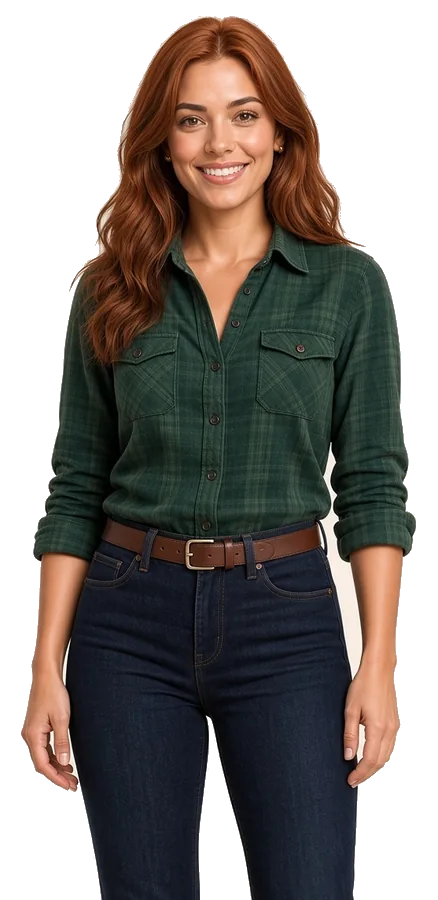
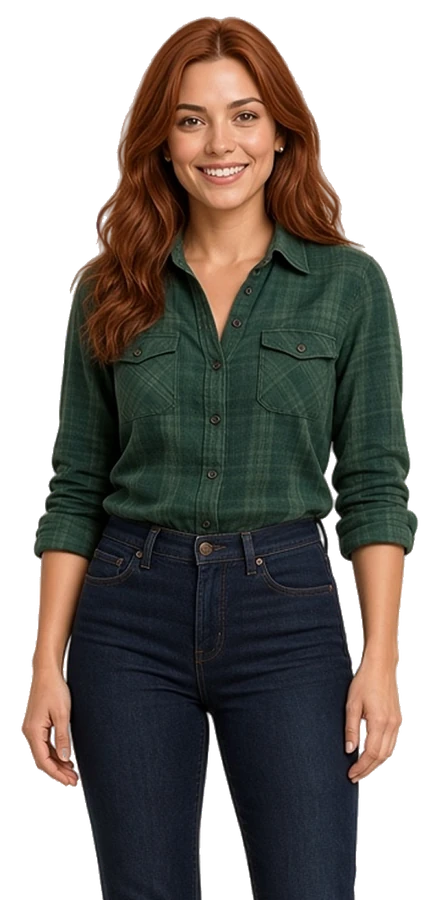
Remat Camille's hairline and stop the mouse-follow zoom.
Redo the cutout with a hair-aware matte and color decontamination so no cream fringe remains against the forest hero. Remove the pointer parallax, the breathe/sway/wave/nod scale animations, and the motion wrappers so she no longer follows the cursor or zooms in and out.

diff --git a/js/gg-widget.js b/js/gg-widget.js
@@ -1,8 +1,7 @@
 /* Camille full-torso chat launcher for the 3 B's preview.
    Conversation stays on the ElevenLabs preview agent. This file only
-   handles the cutout, greeting, motion, and opening/closing the widget. */
+   handles the cutout, greeting, and opening/closing the widget. */
 (function () {
-  const REDUCED = window.matchMedia("(prefers-reduced-motion: reduce)");
   const TALK_DELAY_MS = 1500;
   const widget = document.getElementById("gg-widget");
   const talk = document.getElementById("gg-talk");
@@ -13,10 +12,6 @@
   if (!widget || !launcher) return;
   let seenPanelOpen = false;
 
-  function reduced() {
-    return REDUCED.matches;
-  }
-
   function setOpen(open) {
     seenPanelOpen = false;
     widget.classList.toggle("is-open", open);
@@ -25,12 +20,6 @@
     if (talk) talk.hidden = open ? true : talk.hidden;
     if (open) {
       hideTalk();
-      if (!reduced()) {
-        widget.classList.remove("is-waving");
-        void widget.offsetWidth;
-        widget.classList.add("is-waving");
-        window.setTimeout(() => widget.classList.remove("is-waving"), 800);
-      }
       loadFullCutout();
     }
   }
@@ -103,29 +92,6 @@
     window.setTimeout(showTalk, TALK_DELAY_MS);
   }
 
-  // Subtle parallax on the cutout. CSS transforms only; skip if reduced motion.
-  const life = widget.querySelector(".gg-parallax");
-  if (life && !reduced() && window.matchMedia("(pointer: fine)").matches) {
-    let raf = 0;
-    let targetX = 0;
-    let targetY = 0;
-    window.addEventListener(
-      "mousemove",
-      function (event) {
-        const cx = window.innerWidth * 0.75;
-        const cy = window.innerHeight * 0.7;
-        targetX = Math.max(-6, Math.min(6, (event.clientX - cx) / 80));
-        targetY = Math.max(-4, Math.min(4, (event.clientY - cy) / 100));
-        if (raf) return;
-        raf = window.requestAnimationFrame(function () {
-          raf = 0;
-          life.style.transform =
-            "translate3d(" + targetX + "px," + targetY + "px,0)";
-        });
-      },
-      { passive: true },
-    );
-  }
 
   // When the official widget closes, drop our open state. When it shows a
   // typing/listening indicator, nod.

diff --git a/css/styles.css b/css/styles.css
@@ -1637,14 +1637,6 @@ html.lb-open { overflow: hidden; }
 .gg-ground {
   display: none;
 }
-.gg-sway, .gg-breathe, .gg-react, .gg-parallax {
-  display: block;
-  width: 100%;
-  height: 100%;
-  transform-origin: 50% 100%;
-  pointer-events: none;
-}
-.gg-parallax { will-change: transform; }
 .gg-cutout {
   position: absolute;
   left: 50%;
@@ -1722,33 +1714,6 @@ html.lb-open { overflow: hidden; }
   font-family: inherit;
 }
 
-/* Subtle life: nested wrappers so transforms do not clobber each other. */
-@keyframes gg-breathe {
-  0%, 100% { transform: scale(1); }
-  50% { transform: scale(1.018); }
-}
-@keyframes gg-sway {
-  0%, 100% { transform: rotate(-0.65deg); }
-  50% { transform: rotate(0.65deg); }
-}
-@keyframes gg-wave {
-  0% { transform: rotate(0) scale(1); }
-  30% { transform: rotate(-6deg) scale(1.03); }
-  60% { transform: rotate(3deg) scale(1.01); }
-  100% { transform: rotate(0) scale(1); }
-}
-@keyframes gg-nod {
-  0%, 100% { transform: rotate(0) translateY(0); }
-  40% { transform: rotate(3deg) translateY(4px); }
-  70% { transform: rotate(-0.5deg) translateY(0); }
-}
-.gg-breathe { animation: gg-breathe 4.8s ease-in-out infinite; }
-.gg-sway { animation: gg-sway 6.8s ease-in-out infinite; }
-.gg-widget.is-waving .gg-react { animation: gg-wave .75s ease-out; }
-.gg-widget.is-typing .gg-react { animation: gg-nod .9s ease-in-out infinite; transform-origin: 50% 18%; }
-@media (prefers-reduced-motion: reduce) {
-  .gg-breathe, .gg-sway, .gg-react, .gg-parallax { animation: none !important; transform: none !important; }
-}
 
 /* Hide the default ElevenLabs round "Message" bubble until the chat is open,
    so it cannot cover the hero trust chip or the map. */
@@ -1845,11 +1810,6 @@ body.gg-chat-open elevenlabs-convai {
     filter: none;
     -webkit-mask-image: linear-gradient(to bottom, #000 78%, rgba(0,0,0,.4) 90%, transparent 100%);
     mask-image: linear-gradient(to bottom, #000 78%, rgba(0,0,0,.4) 90%, transparent 100%);
-  }
-  .gg-sway, .gg-breathe, .gg-react, .gg-parallax {
-    transform-origin: 50% 100%;
-    animation: none !important;
-    transform: none !important;
   }
   .gg-talk {
     width: min(220px, calc(100vw - 5.5rem));

diff --git a/index.html b/index.html
@@ -672,22 +672,14 @@
     </div>
     <button type="button" class="gg-stage" id="gg-launcher" aria-label="Chat with Camille" aria-expanded="false">
       <span class="gg-ground" aria-hidden="true"></span>
-      <span class="gg-parallax">
-        <span class="gg-sway">
-          <span class="gg-breathe">
-            <span class="gg-react">
-              <picture>
-                <source type="image/webp" media="(min-width: 640px)" srcset="img/gg/gg-outdoor-auburn.webp">
-                <img class="gg-cutout" src="img/gg/gg-outdoor-auburn-sm.webp" width="253" height="520" alt="" decoding="async" />
-              </picture>
-            </span>
-          </span>
-        </span>
-      </span>
+      <picture>
+        <source type="image/webp" media="(min-width: 640px)" srcset="img/gg/gg-outdoor-auburn.webp">
+        <img class="gg-cutout" src="img/gg/gg-outdoor-auburn-sm.webp" width="253" height="520" alt="" decoding="async" />
+      </picture>
     </button>
   </div>
   <elevenlabs-convai agent-id="agent_2301m76zjc0dfm2afvx1y2z980k7"></elevenlabs-convai>
   <script src="https://unpkg.com/@elevenlabs/convai-widget-embed" async type="text/javascript"></script>
-  <script src="js/gg-widget.js?v=20261112l1" defer></script>
+  <script src="js/gg-widget.js?v=20261112h1" defer></script>
 </body>
 </html>
